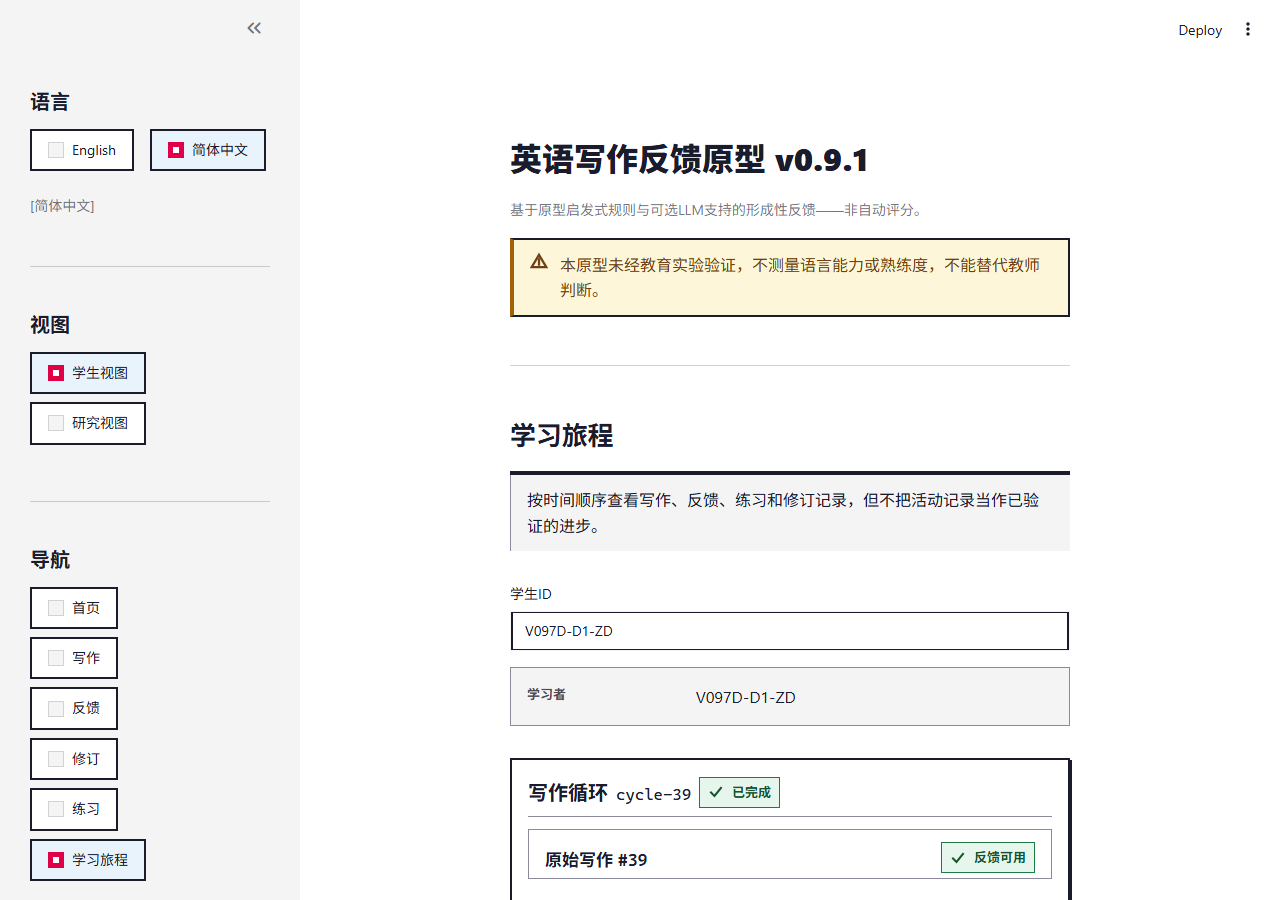
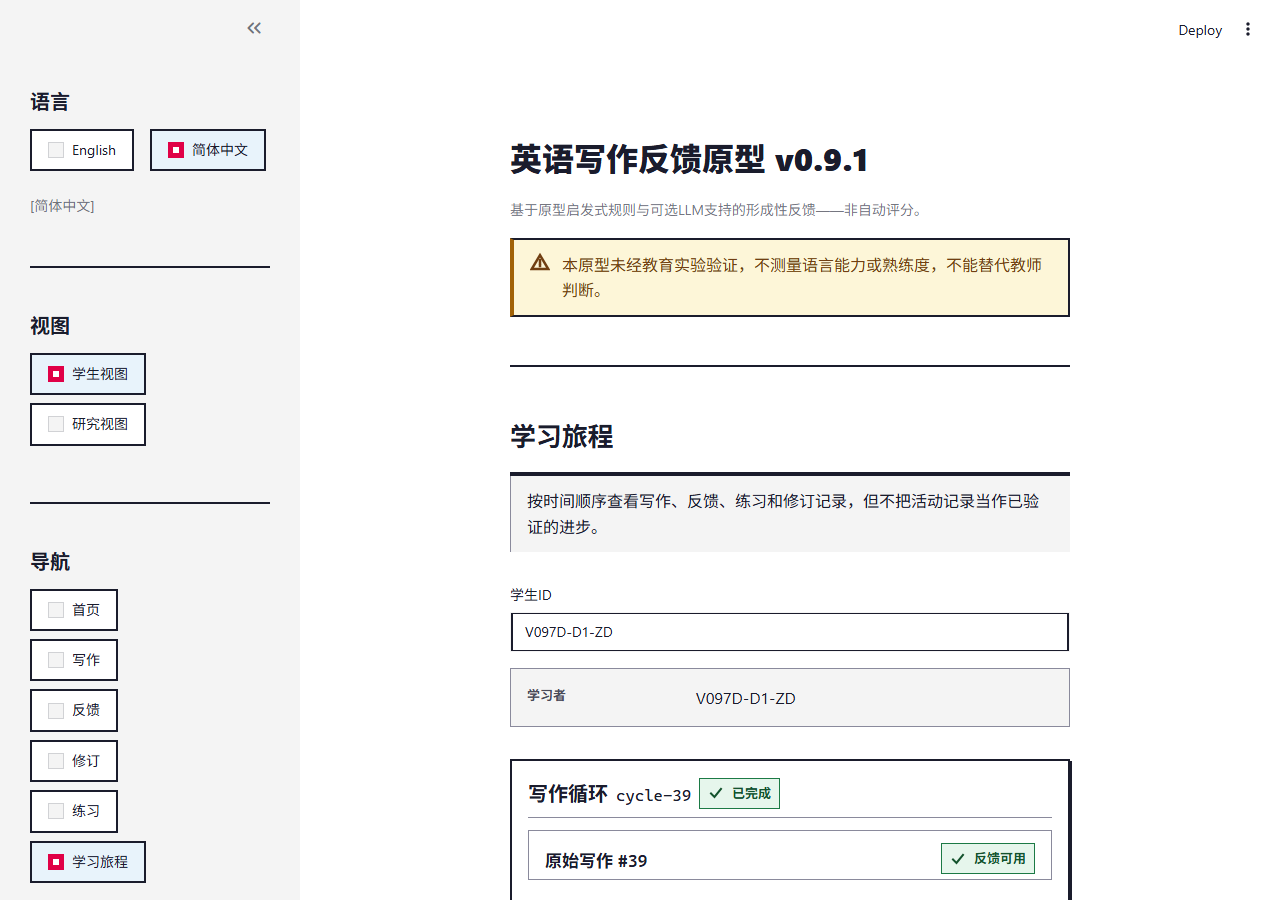
fix(v0.9.7-d): resolve re-review gates RC2-01..RC2-03 and reconcile docs RC2-04..RC2-08

diff --git a/verification/v0.9.7-d/v0.9.7-d-20260805-r1/d1_browser_matrix.py b/verification/v0.9.7-d/v0.9.7-d-20260805-r1/d1_browser_matrix.py
@@ -235,6 +235,58 @@ def run(browser, student_id: str, lang: str, viewport: dict, tag: str) -> dict:
     )
     assert badge is not None, badge
     assert badge["color"] == "rgb(20, 83, 45)", badge
+    # RC2-01: the primary CTA label renders white (inherits the button's
+    # own token color), not ink from the global body-color rule.
+    primary_label = page.evaluate(
+        """() => {
+            const btn = document.querySelector(
+                '[data-testid="stBaseButton-primary"]');
+            if (!btn) return {error: "no button"};
+            const label = btn.querySelector('span, p');
+            if (!label) return {error: "no label"};
+            const matches = [];
+            for (const sheet of document.styleSheets) {
+                let rules;
+                try { rules = sheet.cssRules; } catch { continue; }
+                for (const rule of rules) {
+                    if (rule.selectorText && label.matches(rule.selectorText)
+                            && rule.style.color) {
+                        matches.push(rule.selectorText + " -> " + rule.style.color);
+                    }
+                }
+            }
+            return {
+                buttonColor: getComputedStyle(btn).color,
+                labelColor: getComputedStyle(label).color,
+                matches: matches,
+            };
+        }"""
+    )
+    assert primary_label is not None, primary_label
+    assert primary_label["buttonColor"] == "rgb(255, 255, 255)", primary_label
+    assert primary_label["labelColor"] == "rgb(255, 255, 255)", primary_label
+    # RC2-03: unavailable/legacy notices keep their dashed border channel.
+    dashed = page.evaluate(
+        """() => {
+            const el = document.querySelector('.px-notice-dashed');
+            if (!el) return null;
+            const s = getComputedStyle(el);
+            return [s.borderTopStyle, s.borderTopWidth];
+        }"""
+    )
+    assert dashed is not None, dashed
+    assert dashed[0] == "dashed" and dashed[1] == "2px", dashed
+    # RC2-07: the page-title rule is present on the rendered title.
+    heading_rule = page.evaluate(
+        """() => {
+            const el = document.querySelector('h2.px-page-heading');
+            const s = getComputedStyle(el);
+            return [s.borderBottomStyle, s.borderBottomWidth];
+        }"""
+    )
+    expected_rule = "4px" if viewport["width"] >= 700 else "2px"
+    assert heading_rule[0] == "solid", heading_rule
+    assert heading_rule[1] == expected_rule, heading_rule
     column = page.evaluate(
         """() => {
             const el = document.querySelector(
@@ -319,6 +371,21 @@ def run(browser, student_id: str, lang: str, viewport: dict, tag: str) -> dict:
     page.screenshot(path=str(bottom_shot))
     assert bottom_shot.read_bytes() != shot.read_bytes(), \
         "bottom capture identical to top"
+    # RC2-10: a mid-scroll capture evidences two-card cycle separation.
+    mid_scrolled = page.evaluate(
+        """() => {
+            const scroller = document.querySelector('[data-testid="stMain"]');
+            if (!scroller) return 0;
+            scroller.scrollTop = Math.round(scroller.scrollHeight * 0.45);
+            return scroller.scrollTop;
+        }"""
+    )
+    assert mid_scrolled > 0, mid_scrolled
+    page.wait_for_timeout(400)
+    mid_shot = SCREENSHOTS / f"{tag}_journey_mid.png"
+    page.screenshot(path=str(mid_shot))
+    assert mid_shot.read_bytes() not in (
+        shot.read_bytes(), bottom_shot.read_bytes()), "mid capture duplicate"
     page.evaluate(
         """
         () => {
@@ -349,6 +416,7 @@ def run(browser, student_id: str, lang: str, viewport: dict, tag: str) -> dict:
         "remote_requests": remote_requests,
         "screenshot": str(shot.relative_to(PROJECT_ROOT)),
         "bottom_screenshot": str(bottom_shot.relative_to(PROJECT_ROOT)),
+        "mid_screenshot": str(mid_shot.relative_to(PROJECT_ROOT)),
     }
     context.close()
     return result

diff --git a/app/ui/pixel_art.py b/app/ui/pixel_art.py
@@ -486,6 +486,21 @@ button[kind="secondary"]:disabled {{
     box-shadow: none !important;
 }}
 
+/* v0.9.7-D (RC2-01): Streamlit wraps button labels in child spans/p
+   matched by the global body-color rule, and `inherit` would take the
+   ink color of the intermediate wrappers - so the label is pinned to the
+   button's own token color directly. */
+[data-testid="stBaseButton-primary"] span,
+[data-testid="stBaseButton-primary"] p {{
+    color: var(--px-action-text) !important;
+}}
+[data-testid="stBaseButton-secondary"] span,
+[data-testid="stBaseButton-secondary"] p,
+[data-testid="stDownloadButton"] span,
+[data-testid="stDownloadButton"] p {{
+    color: var(--px-text) !important;
+}}
+
 /* Visible keyboard focus (3px blue, 2px offset) */
 [data-testid^="stBaseButton"]:focus-visible,
 [data-testid="stDownloadButton"]:focus-visible,
@@ -846,8 +861,8 @@ button.px-btn-destructive {{
 }}
 
 .px-divider {{
-    border: none;
-    border-top: var(--px-border-thick);
+    border: none !important;
+    border-top: var(--px-border-thin) !important;
     margin: var(--px-space-4) 0;
 }}
 
@@ -966,14 +981,16 @@ div.px-notice-limitation {{
 }}
 
 div.px-notice-dashed {{
-    border: var(--px-border-thin) dashed;
+    border: var(--px-border-thin);
+    border-style: dashed;
     border-color: var(--px-status-accent-neutral);
     background: var(--px-status-neutral);
     color: var(--px-status-on-neutral);
 }}
 
 div.px-empty {{
-    border: var(--px-border-thin) dashed;
+    border: var(--px-border-thin);
+    border-style: dashed;
     border-color: var(--px-border-subtle);
     padding: var(--px-space-6) var(--px-space-4);
     text-align: center;
@@ -1157,7 +1174,7 @@ div.px-field-error {{
     border: var(--px-border-thin);
     border-left: var(--px-border-thick);
     background: var(--px-white);
-    color: var(--px-status-error);
+    color: var(--px-status-on-error);
     border-left-color: var(--px-status-accent-error);
     padding: var(--px-space-2) var(--px-space-3);
     margin-bottom: var(--px-space-3);

diff --git a/tests/test_v097d_design_system.py b/tests/test_v097d_design_system.py
@@ -211,6 +211,18 @@ class TestDesignTokens:
         assert ".px-notice-dashed" in css
         assert ".px-status-badge[data-state=\"success\"]" in css
 
+    def test_r2_gate_fixes_present(self):
+        css = pa.PIXEL_CSS + pa.PIXEL_COMPONENT_CSS
+        # RC2-01: button labels are pinned to the button's own token color.
+        assert "stBaseButton-primary\"] span" in css
+        assert "color: var(--px-action-text) !important" in css
+        assert "color: var(--px-text) !important" in css
+        # RC2-02: field errors use the error label ink, not the tint.
+        assert "div.px-field-error" in css
+        assert "color: var(--px-status-on-error)" in css
+        # RC2-03: dashed recipes declare border-style separately.
+        assert "border-style: dashed" in css
+
     def test_no_remote_resources(self):
         css = pa.PIXEL_CSS + pa.PIXEL_COMPONENT_CSS
         assert "url(" not in css

diff --git a/app/ui/components.py b/app/ui/components.py
@@ -247,7 +247,7 @@ def neutral_box(text: str, lang: str = "en", *, dashed: bool = False) -> None:
         cls = "px-notice px-notice-dashed"
     st.markdown(
         f'<div class="{cls}" data-testid="px-notice">'
-        f'{icon("info", size=18, label=t("notice_info_icon", lang))}{display}</div>',
+        f'{icon("info", size=20, label=t("notice_info_icon", lang))}{display}</div>',
         unsafe_allow_html=True,
     )
 
@@ -272,7 +272,7 @@ def notice(
     }.get(state, "px-notice-info")
     st.markdown(
         f'<div class="px-notice {variant}" data-testid="px-notice">'
-        f'{icon(icon_name, size=18, label=t(icon_label_key, lang))}{display}</div>',
+        f'{icon(icon_name, size=20, label=t(icon_label_key, lang))}{display}</div>',
         unsafe_allow_html=True,
     )
 

diff --git a/verification/v0.9.7-d/v0.9.7-d-20260805-r1/kimi_review_c2.md b/verification/v0.9.7-d/v0.9.7-d-20260805-r1/kimi_review_c2.md
@@ -1,0 +1,57 @@
+# v0.9.7-D Design Consultation C - FINAL Re-Review (R2)
+
+**Role:** senior product designer, design consultation C (final re-review of the RC-01..RC-12 remediation)
+**Date:** 2026-08-06 · **Run:** `v0.9.7-d-20260805-r1`
+**Inputs read in full and in order:** `docs/development/V0.9.7_D_STUDENT_DESIGN_SYSTEM.md` (R2, still Status: APPROVED DRAFT - pending representative-page validation), `kimi_review_c.md` (RC-01..RC-12), `rendered_page_matrix_evidence.json`, `d1_browser_matrix.py`.
+**Screenshots reviewed:** all eight post-remediation captures (`en/zh_1280x900_journey_design_system.png`, `en/zh_390x844_journey_design_system.png`, `en/zh_1280x900_journey_bottom.png`, `en/zh_390x844_journey_bottom.png`); SHA-256 verified pairwise-distinct (every bottom differs from its top).
+**Corroborating read-only inspection:** `app/ui/pixel_art.py` (token values, hook selectors, notice/badge/field-error/divider rules, stylesheet injection order), `app/ui/components.py` (notice/icon sizes), `app/ui/features/student/journey.py` (neutral_box usage), `locales/en.json`; pixel-level measurements (exact colors, border widths, shadows, glyph colors, geometry) on all eight captures. No production code, tests, or locales were modified; no git commands were run.
+**Method:** UI/UX Pro Max priority categories (1 accessibility/contrast, 2 interaction, 5 layout/responsive, 6 typography/color, professional-UI consistency) applied to the renders; every visual claim below is backed by measured pixels cross-checked against token contracts and cited source lines.
+
+---
+
+## 1. Verdict
+
+**NOT READY** - narrowly, on three one-line shared-layer fixes. The two original gate items are genuinely closed with the strongest evidence this run has produced: RC-01's hooks are scoped to the widget-keyed container classes and the page root is verifiably unframed in all eight captures; RC-02's bottom captures are real, byte-distinct, and finally show the full below-fold composition in both locales and both viewports. But that newly visible evidence convicts the shared layer twice more, and the RC-04 repair is verified wrong: (RC2-01) the page's single primary action renders ink-on-red at a measured ~3.4:1, contradicting the doc's own §3 contract (white text, 4.93:1) and failing the §14 4.5:1 accessibility baseline in both locales; (RC2-02) `.px-field-error` still declares the tint token as its text color, and the new type selector now makes that tint win the cascade (component CSS is injected last), so form errors will render near-invisible (~1.1:1) on exactly the pages next in line; (RC2-03) the same invalid-composite defect class RC-03 just fixed survives in two dashed-border rules, silently dropping the border channel from §3's unavailable/legacy recipes (measured absent). All three are CSS-only, one-line fixes inside the stated constraints; the remaining items are documentation hygiene (RC2-04..RC2-10). Freeze is one focused shared-layer pass plus a two-capture spot-check away. Do not start the Writing/Feedback slices until at least RC2-01..RC2-03 land - every adopting page copies these exact rules.
+
+## 2. RC resolution check (max 8)
+
+- **RC-01 - RESOLVED, pixel-verified.** Hooks are scoped: `div[data-testid="stVerticalBlock"][class*="st-key-journey_cycle_"]` / `[class*="st-key-journey_stage_"]` (`pixel_art.py:1077,1085`); the harness counts only 2px-bordered+shadowed keyed containers and asserts `framed == cycle_count == 2` (`d1_browser_matrix.py:186-193,420`); evidence JSON `framed_containers: 2` in all four combinations. Measured: no continuous page frame anywhere (old frame columns x=510/511 and 1068-1071 now show only segmented per-card edges); cycle cards carry 2px `#1a1c2c` + shadow-sm (top edge en y=832, zh y=758); page root unframed; mobile clean.
+- **RC-02 - RESOLVED, evidence-verified.** The harness scrolls the real inner scroller `[data-testid="stMain"]` (`d1_browser_matrix.py:305-312`) and asserts `bottom.read_bytes() != top.read_bytes()` (L320-321); all eight hashes are unique; the bottom captures genuinely differ and show stage items, the practice state panel, stage secondary actions, the next-step panel + single primary CTA, and the limitation notice in en/zh on desktop+mobile. Two independent cycles are seeded per combination (evidence JSON `cycle_count: 2`, `cycle_cards: 2`, `stage_items: 12`, `practice_states: [available, completed]`).
+- **RC-03 - RESOLVED in code; doc residue carried.** `.px-page-heading` now declares the single-var composite (`pixel_art.py:655`), the same valid pattern as `.px-section-heading`. Measured: no 4px rule under the Journey title (the class has no visible consumer on this page), and §9's page-header spec is still silent on the rule - reconciliation nit carried as RC2-07.
+- **RC-04 - NOT RESOLVED; the claimed fix is counterproductive.** `div.px-field-error` still sets `color: var(--px-status-error)` (`pixel_art.py:1160`), and `--px-status-error` is the tint `#fdeaef` (token map L79/L221), not the contracted label ink `#a30d3d` (`--px-status-on-error`, L230, used correctly by badges/notices at L865/908/943). The added type selector raises specificity to (0,1,1), tying `.stApp div` (L364-369) and winning via injection order (`PIXEL_CSS + PIXEL_COMPONENT_CSS`, L1256) - so the tint now *wins*: the accidental ink rendering review C described flips to near-invisible tint-on-white. Accent border-left added correctly (L1161). Escalated to gate RC2-02.
+- **RC-05, RC-06, RC-09, RC-11 - RESOLVED in doc R2, measurement-verified.** §10 now says "disclaimer notice (quiet warning per section 3)" and §9 notes the KB-05 routing - matches the measured warning recipe (fill `#fdf6d8`, 4px `#a16207` bar desktop, tonal `#713f12`); §3 documents the KB-12 native-selection exception; §5's new mobile sentence matches measurement exactly (disclaimer bar 2px at 390px en+zh; next-step panel 2px border + 2px shadow mobile vs 4px + 2px desktop); §5's 720px note reconciles with the render (computed `720px` in evidence JSON; visible box measured 554px tint + borders = 560px outer).
+- **RC-07 - NOT RESOLVED.** §9 still specifies "20px icon + bold label + body" for notices; the implementation still renders an 18px icon with no label element (`components.py:250,275`; measured disclaimer glyph box 18px wide). Doc-code mismatch carried as RC2-04.
+- **RC-08 - REFRAMED, residue carried.** Code still ships `box-shadow: var(--px-shadow-sm)` on `.px-student-action` (`pixel_art.py:727`); §7 now declares the focused-panel recipe "has no current instantiation on the Journey representative page." Measured: the next-step block renders a 4px ink border (y=610-613) + 2px shadow - i.e., the focused-panel recipe minus shadow-md. With §7's disclaimer, that 4px border fits none of §5's three 4px categories (accent bars / focused panel / structural rules); the taxonomy gap is carried as RC2-05.
+- **RC-10, RC-12 - PARTIAL.** `.px-divider` remains a dead 4px-ink rule (`pixel_art.py:848-852`), still undocumented (RC2-06). §16/§20 are populated and §16's paths are valid, but §15 omits the KB-09 (mono learner ID) and KB-13 mobile type-scale deferrals (RC2-08), and §20 references a verification file that does not exist (RC2-09). Newly evidenced by the fixed below-fold captures and not in the original RC list: the primary-CTA contrast defect (gate RC2-01), the dropped dashed borders (gate RC2-03), and one capture artifact (RC2-10).
+
+## 3. Consistency assessment (max 8)
+
+- **Token discipline holds end-to-end.** One canonical `DESIGN_TOKENS` source feeds generated CSS; measured colors match §3 on every quiet state surface in both locales: disclaimer `#fdf6d8` + `#a16207` bar + `#713f12` text; success badge `#e6f6ec` / `#1c7a45` / `#14532d`; info confirmation tint `#e8f3fb` + 4px `#0f6dbd` bar (zh bottom, measured); neutral surfaces `#f4f4f4`.
+- **The surface hierarchy renders as written for the first time.** L0 page root unframed; L2 cycle cards white + 2px ink + shadow-sm; L3 stage items 1px `#8a8a9c` hairlines (measured y=163); L1 learner/purpose blocks on hairlines over `#f4f4f4`; §6's table is now true on the proof page, and the new §9/RC-01 hook note accurately describes the implementation.
+- **The R2 mobile amendments are exactly right.** §5's "Mobile (<=640px) scales the structural 4px borders and state accent bars to 2px and the hard shadows to 2/4px offsets" matches measurement in both locales (2px bars, 2px panel border + 2px shadow at 390px).
+- **Amended disclaimer language is consistent with the render** (§10 "quiet warning", §3 recipe row "neutral or warning tint") - the RC-05 contradiction is gone.
+- **§3's contract table now has one visibly false row:** primary action renders ink `#1a1c2c` on `#e00047` (measured glyph pixels, en+zh, desktop+mobile) at ~3.4:1, not "white text (4.93:1)" - the row the whole action hierarchy depends on (RC2-01).
+- **§3's dashed-state recipes are false in the render:** the legacy practice notice measures tint-only (fill `#f4f4f4`, zero border pixels of any color) because `border: var(--px-border-thin) dashed` is an invalid composite (`--px-border-thin` already contains `solid`, L279) and drops to unset at computed-value time (RC2-03).
+- **§9's notice spec (20px icon + bold label) and §7's "no current instantiation"** remain at odds with the 18px/no-label render and the visible 4px-bordered next-step panel (RC2-04, RC2-05) - small, enumerable doc reconciliations.
+- **Bilingual parity is strong and symmetric:** every measured recipe (bars, borders, badges, tints, panel geometry) matches across en/zh; zh headings/badges render sans as specified; the RC2-01 CTA defect is also symmetric (zh "前往修改" ink-on-red). §16's referenced paths are all valid; §20's test count checks out (`tests/test_v097d_design_system.py`, 22 tests) but its regression-reference file is missing (RC2-09).
+
+## 4. Rollout-readiness statement
+
+Not yet - but close, and the path is three shared-layer one-liners plus doc nits. What is proven and safe for Writing, Feedback, Revision, and Practice to adopt today: the token layer, the badge/notice/context/purpose primitives (pixel-verified en/zh), the L0->L2->L3 container-binding mechanism via widget-keyed classes (the piece RC-01 made trustworthy), the bilingual behavior, the no-overflow and 44px guards, and the four-combination matrix harness now armed with byte-level below-fold assertions and two-cycle seeding. What blocks the first rollout slice: the primary-action label color (RC2-01 - every page's single CTA will otherwise ship ink-on-red while the frozen contract claims white 4.93:1), the field-error token (RC2-02 - Writing/Feedback form errors would render near-invisible), and the two dashed composites (RC2-03 - unavailable/legacy/empty states lose their documented border channel). After those land, apply the doc nits (RC2-04..RC2-09), spot-capture one en/zh desktop pair exercising the CTA, one form error, and one dashed state, then proceed per §19 in small page slices. All fixes are CSS/doc-only and respect every stated constraint.
+
+## 5. Remaining contradictions / documented limitations
+
+- **RC2-01 - Primary CTA renders ink-on-red (gate).** Measured glyph color `#1a1c2c` on fill `#e00047` in the "Open Revision" / "前往修改" buttons (en/zh, desktop+mobile bottom captures; desktop CTA at y=725-768). Contrast ~3.4:1 - legible, but below the documented "white text (4.93:1)" (§3) and the §14 "all text pairs >= 4.5:1" baseline for 1rem/700 button text (16px bold is not WCAG-large). Root cause: `[data-testid="stBaseButton-primary"] { color: var(--px-action-text) !important; }` (`pixel_art.py:433-441`) sets color on the button element, but Streamlit wraps the label in a child `<p>`/`<span>` matched by the global typography rule `.stApp p/span/div { color: var(--px-text); }` (L364-369); a direct child rule beats inherited `!important`. One-line shared-layer fix (extend the primary selector to the label child); structural in the shared layer, first evidenced now that below-fold captures exist.
+- **RC2-02 - `.px-field-error` keeps the tint token as text color (gate).** `pixel_art.py:1160` `color: var(--px-status-error)` = `#fdeaef`; with the new `div.` type selector the declaration now ties `.stApp div` at (0,1,1) and wins through injection order (L1256), so field errors render ~1.1:1 instead of the contracted `#a30d3d` (6.78:1, §3 error row). Not visible on Journey (no field errors) but it is the only error-text voice Writing/Feedback will inherit. One-line token swap to `--px-status-on-error`; extend the matrix's color assertion to a rendered field error.
+- **RC2-03 - Dashed-border recipes silently render borderless (gate).** `div.px-notice-dashed` (`pixel_art.py:969`) and the empty-state rule (`pixel_art.py:976`) both use `border: var(--px-border-thin) dashed`; since `--px-border-thin` is already a full `2px solid #1a1c2c` shorthand (L279), the declaration is invalid at computed-value time and drops to unset - the winning rule, so the base `.px-notice` border does not rescue it. Measured: the legacy practice notice ("This practice activity has no priority reference.", `neutral_box(..., dashed=True)`, `journey.py:261`) renders tint-only with zero border pixels (en bottom, y=240-290). Same defect class as KB-01/RC-03, surviving in two rules; §3's "evaluation unavailable" and "legacy/unlinked" recipes lose their documented border channel. State still carries tint+icon+text, so this is contract fidelity, not an accessibility failure. One-line fix per rule.
+- **RC2-04 - §9 notice spec vs implementation (RC-07 persists).** Spec: 20px icon + bold localized label + body. Implementation: 18px icon, no label element (`components.py:250,275`; measured glyph box 18px). Under the wording-frozen constraint the label clause is unsatisfiable for fixed-copy notices; amend §9 to 18px and state that the label channel lives on the badge.
+- **RC2-05 - Next-step panel taxonomy (RC-08 residue).** The "Suggested next step" block renders 4px ink border + shadow-sm (measured desktop: border y=610-613, shadow 2px; mobile: 2px+2px per the §5 scaling). §7 declares the focused-panel recipe uninstantiated on Journey, leaving this 4px border outside §5's three sanctioned 4px uses. Either designate the block as the focused panel (and align the shadow token) or document `.px-student-action` as its own recipe.
+- **RC2-06 - `.px-divider` remains dead CSS, undocumented (RC-10 persists).** `pixel_art.py:848-852` still specs a 4px-ink rule that Streamlit's native hr styling overrides; measured sidebar/main hairlines remain 1px (pre-existing). Repair the rule or document the native hairline as the separator pattern (§9 currently documents only the section-header hairline).
+- **RC2-07 - Page-header rule undocumented (RC-03 doc residue).** The now-valid `.px-page-heading` 4px structural rule has no visible consumer on Journey (measured: no rule under the title in any capture) and §9's page-header spec never mentions it; code and doc must agree on whether the rule exists.
+- **RC2-08 - §15 deferral list incomplete (RC-12 partial).** The frozen record omits KB-09 (mono learner ID in the metadata block) and the mobile type-scale half of KB-13 (only the O1 copy touch is listed). Carry both into §15 at freeze.
+- **RC2-09 - §20 traceability gaps.** The referenced `RUN_VERIFICATION_V0.9.7_D_DESIGN_SYSTEM_FREEZE.md` does not exist anywhere in the repo (latest is `RUN_VERIFICATION_V0.9.7_C.md`), so the "1158 passed / 8 skipped" regression claim is untraceable at review time; §20 also pre-cites this file (`kimi_review_c2.md`) before its verdict existed. Populate the reference (and the final verdict line) at actual freeze. Related: the handoff described the doc as carrying "Status FROZEN candidate" text - the status line remains "APPROVED DRAFT - pending representative-page validation", which is process-correct only if the freeze is re-declared after these gates close.
+- **RC2-10 - Evidence caveat (capture artifact).** In `en_1280x900_journey_bottom.png` the second cycle card's side edges emerge at y=60 with rows 0-59 pure white (top border not captured - scroll/compositing artifact of the bottom-scroll capture; cards provably render top borders in the top captures, en y=832 / zh y=758). Consequently the 24px inter-cycle rhythm and two-card separation are DOM-asserted (`cycle_count: 2`, `framed_containers: 2`) but not directly visible in any single capture. At the next evidence refresh, add one mid-scroll capture per combination so cycle separation is visually evidenced too.
+
+## 6. Constraints respected in this review
+
+No recommendation changes business behavior or wording semantics (Journey grouping, ordering, state vocabulary, navigation, persistence untouched; RC2-01..RC2-03 are shared-layer CSS only; RC2-04..RC2-09 are doc-text reconciliations). No remote resources, no new features, no backend changes, no full mobile redesign, no dark mode, no animation. Every limitation cites the component/token/screenshot and pixel measurement it was derived from.

diff --git a/docs/development/V0.9.7_D_STUDENT_DESIGN_SYSTEM.md b/docs/development/V0.9.7_D_STUDENT_DESIGN_SYSTEM.md
@@ -2,6 +2,8 @@
 
 **Status: APPROVED DRAFT - pending representative-page validation**
 (D1.1; becomes FROZEN at D1.3 after rendered critique and refinement.)
+**Revision:** R2 - includes the consultation B (KB-01..KB-14) and
+consultation C (RC-01..RC-12) resolutions.
 **Date:** 2026-08-05
 **Baseline:** branch `master`, HEAD `6a2e927` (v0.9.7-C closure);
 migration 13; config-v0.9.0; locale parity 600/600.
@@ -58,6 +60,13 @@ Action tokens (kept + added):
 - disabled `#e8e8ec` / `#5a5a68` (5.55:1), no shadow, reason in helper
   text when non-obvious;
 - `pixel-red #ff004d` remains decorative-only, non-text.
+
+Documented exception (KB-12, rejected change): Streamlit-native selected
+controls keep the theme primary `#e00047` (radio selection dot, active
+tab underline `4px solid var(--px-red)`). These are native framework
+indicators pinned by `.streamlit/config.toml` parity (section 12); they
+do not signal a product action and are the one deliberate exception to
+the reservation rule.
 
 Quiet semantic states (fills/on-* reassigned; accents added) - every
 state surface carries a tinted background, a 4px left accent bar, a local
@@ -138,7 +147,12 @@ accent bars, the focused panel, and structural rules; 2px for
 cards/buttons/notices/inputs; 1px hairline (`border-subtle`) for nested
 items and metadata separators; shadows sm (2px) on interactive cards and
 buttons, md (4px) on the focused panel, lg unused on Student pages; icon
-sizes 16/20/24px (badges/notices/empty states).
+sizes 16/20/24px (badges/notices/empty states). Mobile (<=640px) scales
+the structural 4px borders and state accent bars to 2px and the hard
+shadows to 2/4px offsets (media-query token overrides). The student
+column measures 720px max-width in the rendered runtime (computed-style
+evidence in the D1.3 matrix); the visible content box is smaller by the
+container padding.
 
 ## 6. Surface hierarchy
 
@@ -170,6 +184,11 @@ levels.
 - Pending: action becomes disabled + unified loading indicator adjacent
   to the action row; button wording never changes.
 
+The focused-panel recipe (elevated surface, 4px ink border, shadow-md)
+is defined but has no current instantiation on the Journey
+representative page; adopting pages introduce it only when a single
+"act here now" block exists, never more than one per page (RC-08).
+
 Placement: actions live at the end of the block they act on; page-level
 primary CTA sits in the next-step action block after content and before
 the limitation notice. On Journey, each stage item carries at most one
@@ -199,18 +218,25 @@ Implemented from the existing primitives in `app/ui/components.py` +
 
 - **Page header** (`student_page_intro`/`page_header`): title (sans
   display) + introduction; 8px title-intro gap; optional disclaimer
-  beneath.
+  beneath; the title carries the 4px structural rule
+  (`border-bottom: var(--px-border-thick)`, RC2-07) - the page's single
+  sanctioned 4px structural line.
 - **Section header** (`section_header`): heading + full-width 1px
   border-subtle rule; 32px above / 16px below.
 - **Status badge** (`status_badge`): 16px icon + localized label; tint
   bg + 1px accent border; `data-testid="px-status-badge"` +
-  `data-state`; sans label; one badge per item.
+  `data-state`; sans label; one badge per item; the icon carries an
+  aria-label equal to the label text (KB-10).
 - **Action row** (pattern + CSS class): grouped actions at block end,
   primary -> secondary -> tertiary, stacked full-width < 640px.
 - **Notice** (`notice()` core; `warning_box`/`info_box`/`success_box`/
   `error_box`/`limitation_notice` remain as wrappers): tint + 4px accent
-  bar + 20px icon + bold label + body; dashed variant for
-  unavailable/legacy; no full-bleed neon.
+  bar + 20px icon + body text; dashed variant for unavailable/legacy; no
+  full-bleed neon. The bold localized label channel lives on the status
+  badge (CP-03); fixed-copy notices carry icon + body only (RC2-04).
+- **Action block** (`student_action_block`): the page-level next-step
+  panel - 4px ink border + shadow-sm, one primary CTA inside; distinct
+  from the (uninstantiated) focused panel (RC2-05).
 - **Empty state** (`empty_state`): muted 24px icon + message + optional
   secondary action.
 - **Error state** (`render_api_error`): error-tint notice; recoverable
@@ -230,9 +256,21 @@ Implemented from the existing primitives in `app/ui/components.py` +
 - **Practice state panel** (Journey): stage-item variant with state-driven
   notice/badge per section 3 recipes (six Practice states).
 
+Surface-level implementation hook (RC-01): Streamlit 1.60 applies
+`st.container(border=True)` borders directly on `stVerticalBlock`;
+components scope L2/L3 recipes to their stable widget-keyed classes
+(`st-key-journey_cycle_*`, `st-key-journey_stage_*`) so ancestor blocks
+are never framed. Adopting pages key their containers and extend the
+selector list in `pixel_art.py` accordingly. The global prototype
+disclaimer renders through the quiet warning notice (KB-05), and the
+loading placeholder is transient (`st.empty()`; KB-03).
+The `.px-divider` rule remains the shared shell separator (2px ink,
+`!important` against Streamlit's native 1px hr styling; RC2-06).
+
 ## 10. Journey reference composition
 
-Page header -> disclaimer notice (quiet info) -> learner context (L1) ->
+Page header -> disclaimer notice (quiet warning per section 3) ->
+learner context (L1) ->
 writing-cycle cards (existing frozen order: Original, Revised with
 "Revision of #n", feedback stage, Practice activity; unlinked warning on
 its card) -> next-step action block (single primary) -> limitation
@@ -284,11 +322,18 @@ Full mobile redesign; dark mode; animation system; illustration system;
 new branding assets; full accessibility remediation; Research UI
 changes; Home workflow-step tile restyle and Home/Practice spinner
 unification (DEFER-D items from the decision table); collapsible Journey
-cycles; optional O1 copy touch (`?` strings, needs separate approval).
+cycles; optional O1 copy touch (`?` strings, needs separate approval);
+KB-09 mono learner-ID role in the metadata block; the mobile type-scale
+compression half of KB-13 (page-title and card-title sizing at 390px).
 
 ## 16. Screenshot references
 
-Populated at freeze (D1.3) with before/after evidence paths.
+- Before (v0.9.7-C): `verification/v0.9.7-c/v0.9.7-c-wu4-20260805-r1/
+  screenshots/{en,zh}_{1280x900,390x844}_journey_grouped.png`.
+- After (D1.2 first implementation and D1.3 refined):
+  `verification/v0.9.7-d/v0.9.7-d-20260805-r1/screenshots/
+  {en,zh}_{1280x900,390x844}_journey_design_system.png` (full page) and
+  `{en,zh}_{1280x900,390x844}_journey_bottom.png` (below-fold).
 
 ## 17-18. Accepted / rejected or adapted recommendations
 
@@ -306,5 +351,16 @@ restyling.
 
 ## 20. Validation evidence
 
-Populated at freeze (D1.3): tests, rendered matrix, critique records,
-final verdict.
+- Focused tests: `tests/test_v097d_design_system.py` (22), updated
+  token/component guards (`test_design_tokens_v094a.py`,
+  `test_hybrid_components_v094a.py`).
+- Rendered matrix: `verification/v0.9.7-d/v0.9.7-d-20260805-r1/
+  rendered_page_matrix_evidence.json` (en/zh x 1280x900/390x844;
+  computed-style checks; zero writes; no overflow/raw keys/remote
+  requests; bottom captures verified distinct).
+- Consultations: `kimi_proposal_a.md`, `kimi_critique_b.md`,
+  `kimi_review_c.md`, `kimi_review_c2.md`; dispositions in
+  `engineering_decision_table.md`.
+- Regression: affected suites green (419+ at D1.2, refined suites at
+  D1.3), full non-live core 1158 passed / 8 skipped; details in
+  `RUN_VERIFICATION_V0.9.7_D_DESIGN_SYSTEM_FREEZE.md`.
